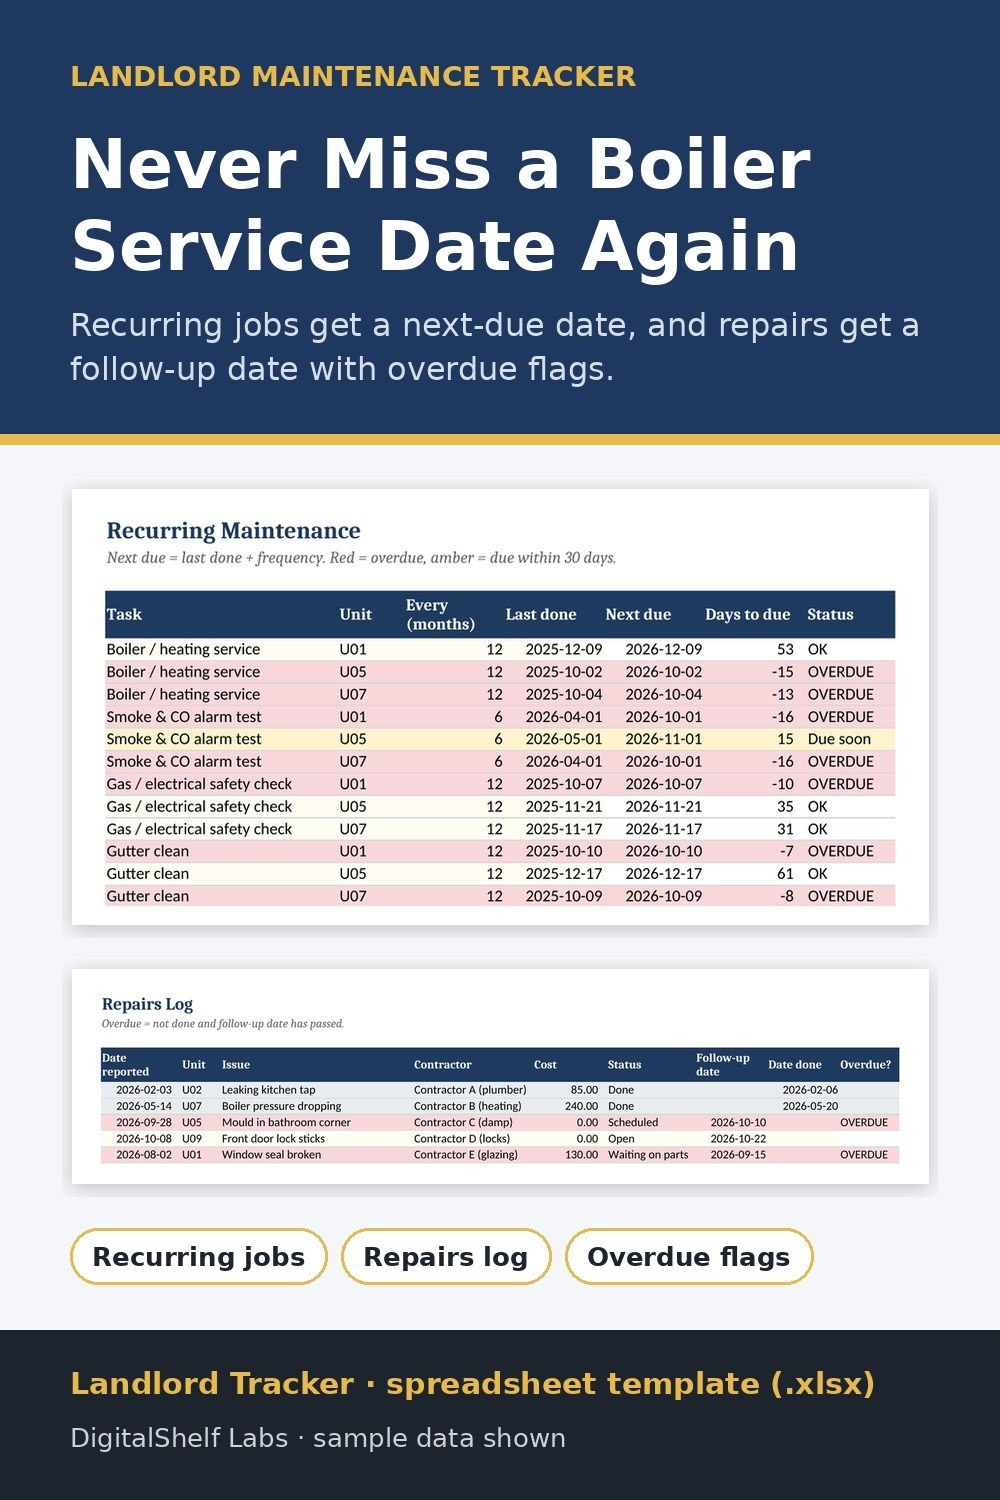
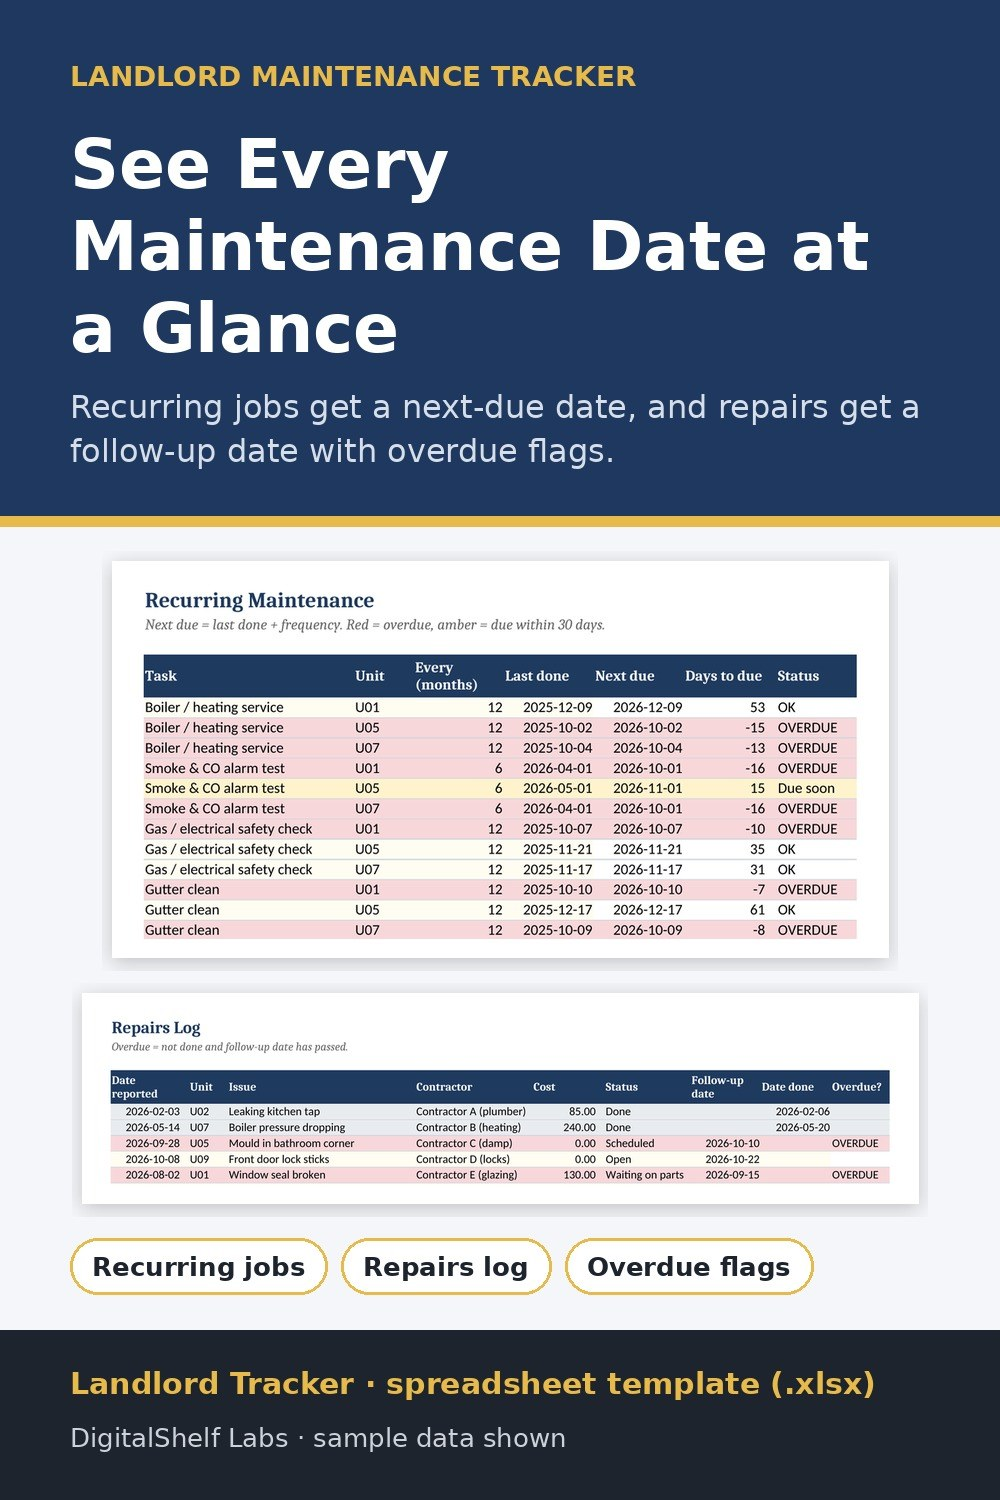
Pins: Hugo no-advice line on landlord v6/v8/v9, refreshed v9 image (no new feed items)

diff --git a/articles/monthly-routine-rental-property-spreadsheet/index.html b/articles/monthly-routine-rental-property-spreadsheet/index.html
@@ -57,9 +57,9 @@
 <li><strong>Updating only when something goes wrong.</strong> By then you're reconstructing months from memory. The monthly close prevents that.</li>
 </ol>
 <h2>Homemade or ready-made</h2>
-<p>If you like building things, a homemade sheet works well, and the list of what to record above is a good place to start. If you'd rather start from a finished file, I make one: the <strong>Landlord Tracker</strong>, an .xlsx template for 1–10 long-term units. It has a rent ledger that handles partial and late payments, deposits, lease ends in 30/60/90 days, repairs, recurring maintenance, expenses by unit and category, and an annual summary, plus a sample file filled with example data. Either way, the routine above is what keeps the numbers right.</p>
+<p>If you like building things, a homemade sheet works well, and the list of what to record above is a good place to start. If you'd rather start from a finished file, DigitalShelf Labs makes one: the <strong>Landlord Tracker</strong>, an .xlsx template for 1–10 long-term units. It has a rent ledger that handles partial and late payments, deposits, lease ends in 30/60/90 days, repairs, recurring maintenance, expenses by unit and category, and an annual summary, plus a sample file filled with example data. Either way, the routine above is what keeps the numbers right.</p>
 <p>Landlord Tracker: <a href="/products/landlord-tracker/">Landlord Tracker</a></p>
-<p><em>Disclosure: I make the Landlord Tracker and sell it through my small shop, DigitalShelf Labs. This article is general information only, not legal, tax or accounting advice.</em></p></article><p><a class="btn" href="/products/landlord-tracker/">See the Landlord Tracker</a></p></div>
+<p><em>Disclosure: this article is by DigitalShelf Labs, which makes and sells the Landlord Tracker. General information only, not legal, tax or accounting advice.</em></p></article><p><a class="btn" href="/products/landlord-tracker/">See the Landlord Tracker</a></p></div>
 </div></main>
 <footer class="site"><div class="wrap"><p>© 2026 DigitalShelf Labs · Templates, planners and guides, sold through Gumroad.</p>
 <p><a href="/products/">Products</a><a href="/articles/">Articles</a><a href="/affiliates/">Affiliates</a><a href="/privacy/">Privacy</a><a href="mailto:digitalshelflabs@proton.me">digitalshelflabs@proton.me</a></p></div></footer>

diff --git a/articles/set-up-a-2027-planner/index.html b/articles/set-up-a-2027-planner/index.html
@@ -62,8 +62,8 @@
 <p>You will miss a week. Plan for it now. When it happens, don't go back and fill in the old pages. Open the current week, set a top 3 and continue. If a whole month slipped, do a quick monthly review, then set up the current month. Five minutes, and you're back.</p>
 <h2>The whole system in one line</h2>
 <p>Year page once, goals once, a top 3 every month and every week, a small habit tracker, and a short review at the end of each month and quarter.</p>
-<p>If you'd like this ready-made, I make a 2027 range built around exactly this structure: a Minimal Planner with year, monthly and weekly pages, a Goals &amp; Habits Planner with yearly goals, habit trackers and monthly and quarterly reviews, and a hyperlinked Digital Planner for tablets, each available separately or together as a bundle: <a href="/products/2027-planner-bundle/">2027 Planner Bundle</a></p>
-<p><em>Disclosure: I'm the maker of these planners and sell them through my shop, DigitalShelf Labs.</em></p></article><p><a class="btn" href="/products/2027-planner-bundle/">See the 2027 Planner Bundle</a></p></div>
+<p>If you'd like this ready-made, DigitalShelf Labs makes a 2027 range built around exactly this structure: a Minimal Planner with year, monthly and weekly pages, a Goals &amp; Habits Planner with yearly goals, habit trackers and monthly and quarterly reviews, and a hyperlinked Digital Planner for tablets, each available separately or together as a bundle: <a href="/products/2027-planner-bundle/">2027 Planner Bundle</a></p>
+<p><em>Disclosure: this article is by DigitalShelf Labs, which makes and sells these planners.</em></p></article><p><a class="btn" href="/products/2027-planner-bundle/">See the 2027 Planner Bundle</a></p></div>
 </div></main>
 <footer class="site"><div class="wrap"><p>© 2026 DigitalShelf Labs · Templates, planners and guides, sold through Gumroad.</p>
 <p><a href="/products/">Products</a><a href="/articles/">Articles</a><a href="/affiliates/">Affiliates</a><a href="/privacy/">Privacy</a><a href="mailto:digitalshelflabs@proton.me">digitalshelflabs@proton.me</a></p></div></footer>

diff --git a/articles/vacation-rental-welcome-folder/index.html b/articles/vacation-rental-welcome-folder/index.html
@@ -78,8 +78,8 @@
 <li><strong>Review twice a year.</strong> Walk through the folder as if you were a guest, and fix anything outdated.</li>
 </ul>
 <h2>A shortcut, if you want one</h2>
-<p>You can make all of this in any word processor. If you'd rather not design it, I make a set of seven matching printables covering exactly these pages: welcome sign, house rules, Wi-Fi card, check-out sign, local tips, good-to-know sheet and review card. They come as fillable PDFs you can type into with a free PDF reader, plus editable DOCX files, in A4 and US Letter: <a href="/products/rental-host-printables/">Guest-Ready in 10 Minutes</a></p>
-<p><em>Disclosure: I'm the maker of these printables and sell them through my shop, DigitalShelf Labs.</em></p></article><p><a class="btn" href="/products/rental-host-printables/">See the Guest-Ready in 10 Minutes</a></p></div>
+<p>You can make all of this in any word processor. If you'd rather not design it, DigitalShelf Labs makes a set of seven matching printables covering exactly these pages: welcome sign, house rules, Wi-Fi card, check-out sign, local tips, good-to-know sheet and review card. They come as fillable PDFs you can type into with a free PDF reader, plus editable DOCX files, in A4 and US Letter: <a href="/products/rental-host-printables/">Guest-Ready in 10 Minutes</a></p>
+<p><em>Disclosure: this article is by DigitalShelf Labs, which makes and sells these printables.</em></p></article><p><a class="btn" href="/products/rental-host-printables/">See the Guest-Ready in 10 Minutes</a></p></div>
 </div></main>
 <footer class="site"><div class="wrap"><p>© 2026 DigitalShelf Labs · Templates, planners and guides, sold through Gumroad.</p>
 <p><a href="/products/">Products</a><a href="/articles/">Articles</a><a href="/affiliates/">Affiliates</a><a href="/privacy/">Privacy</a><a href="mailto:digitalshelflabs@proton.me">digitalshelflabs@proton.me</a></p></div></footer>

diff --git a/articles/how-to-use-an-undated-digital-planner/index.html b/articles/how-to-use-an-undated-digital-planner/index.html
@@ -69,8 +69,8 @@
 <p>With undated pages, a restart is a two-minute job instead of a guilt trip.</p>
 <h2>A simple weekly rhythm</h2>
 <p>If you want the whole system in one paragraph: once a month, set a focus and three goals. Once a week, write a top 3 and spread tasks across the days. On busy days, use a daily page. Track one to three habits. When you fall off, start again on the next blank page.</p>
-<p>If you'd like a ready-made version of this, I make an undated, hyperlinked tablet PDF with monthly, weekly and daily pages, habit trackers and notes, in Monday-start and Sunday-start versions. It's here: <a href="/products/undated-digital-planner/">Undated Digital Planner</a></p>
-<p><em>Disclosure: I'm the maker of this planner and sell it through my shop, DigitalShelf Labs.</em></p></article><p><a class="btn" href="/products/undated-digital-planner/">See the Undated Digital Planner</a></p></div>
+<p>If you'd like a ready-made version of this, DigitalShelf Labs makes an undated, hyperlinked tablet PDF with monthly, weekly and daily pages, habit trackers and notes, in Monday-start and Sunday-start versions. It's here: <a href="/products/undated-digital-planner/">Undated Digital Planner</a></p>
+<p><em>Disclosure: this article is by DigitalShelf Labs, which makes and sells this planner.</em></p></article><p><a class="btn" href="/products/undated-digital-planner/">See the Undated Digital Planner</a></p></div>
 </div></main>
 <footer class="site"><div class="wrap"><p>© 2026 DigitalShelf Labs · Templates, planners and guides, sold through Gumroad.</p>
 <p><a href="/products/">Products</a><a href="/articles/">Articles</a><a href="/affiliates/">Affiliates</a><a href="/privacy/">Privacy</a><a href="mailto:digitalshelflabs@proton.me">digitalshelflabs@proton.me</a></p></div></footer>
